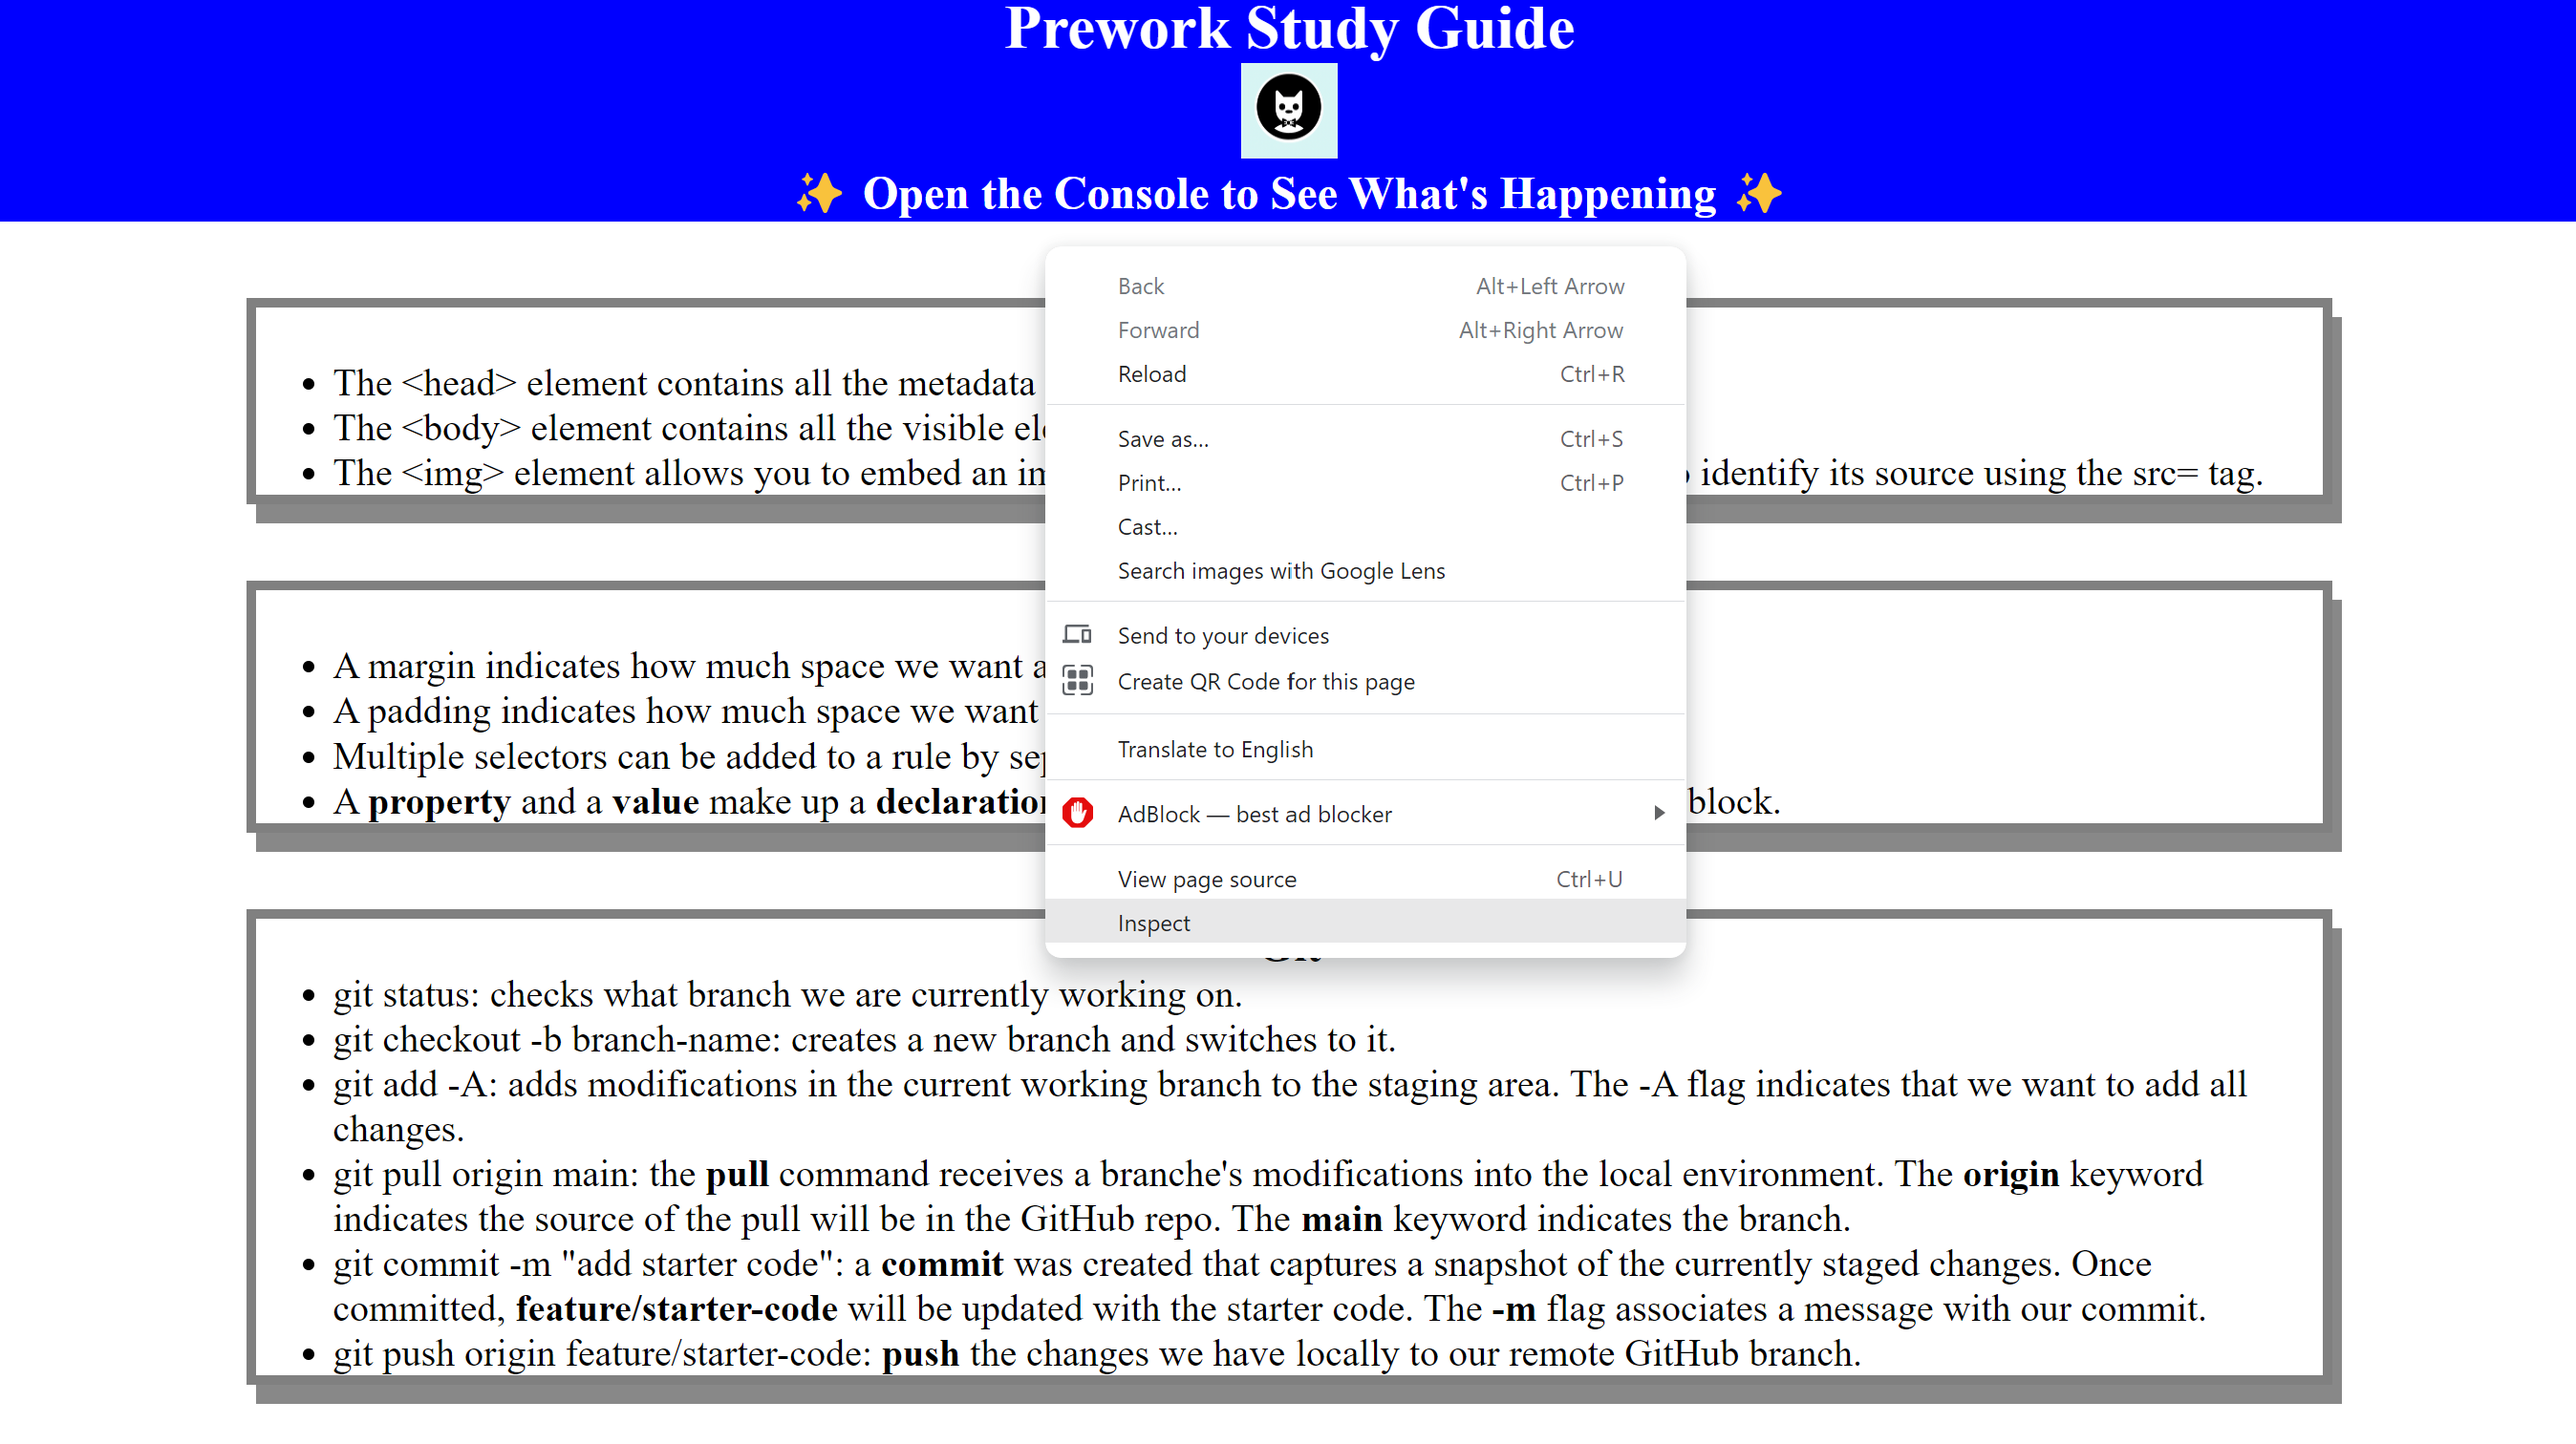
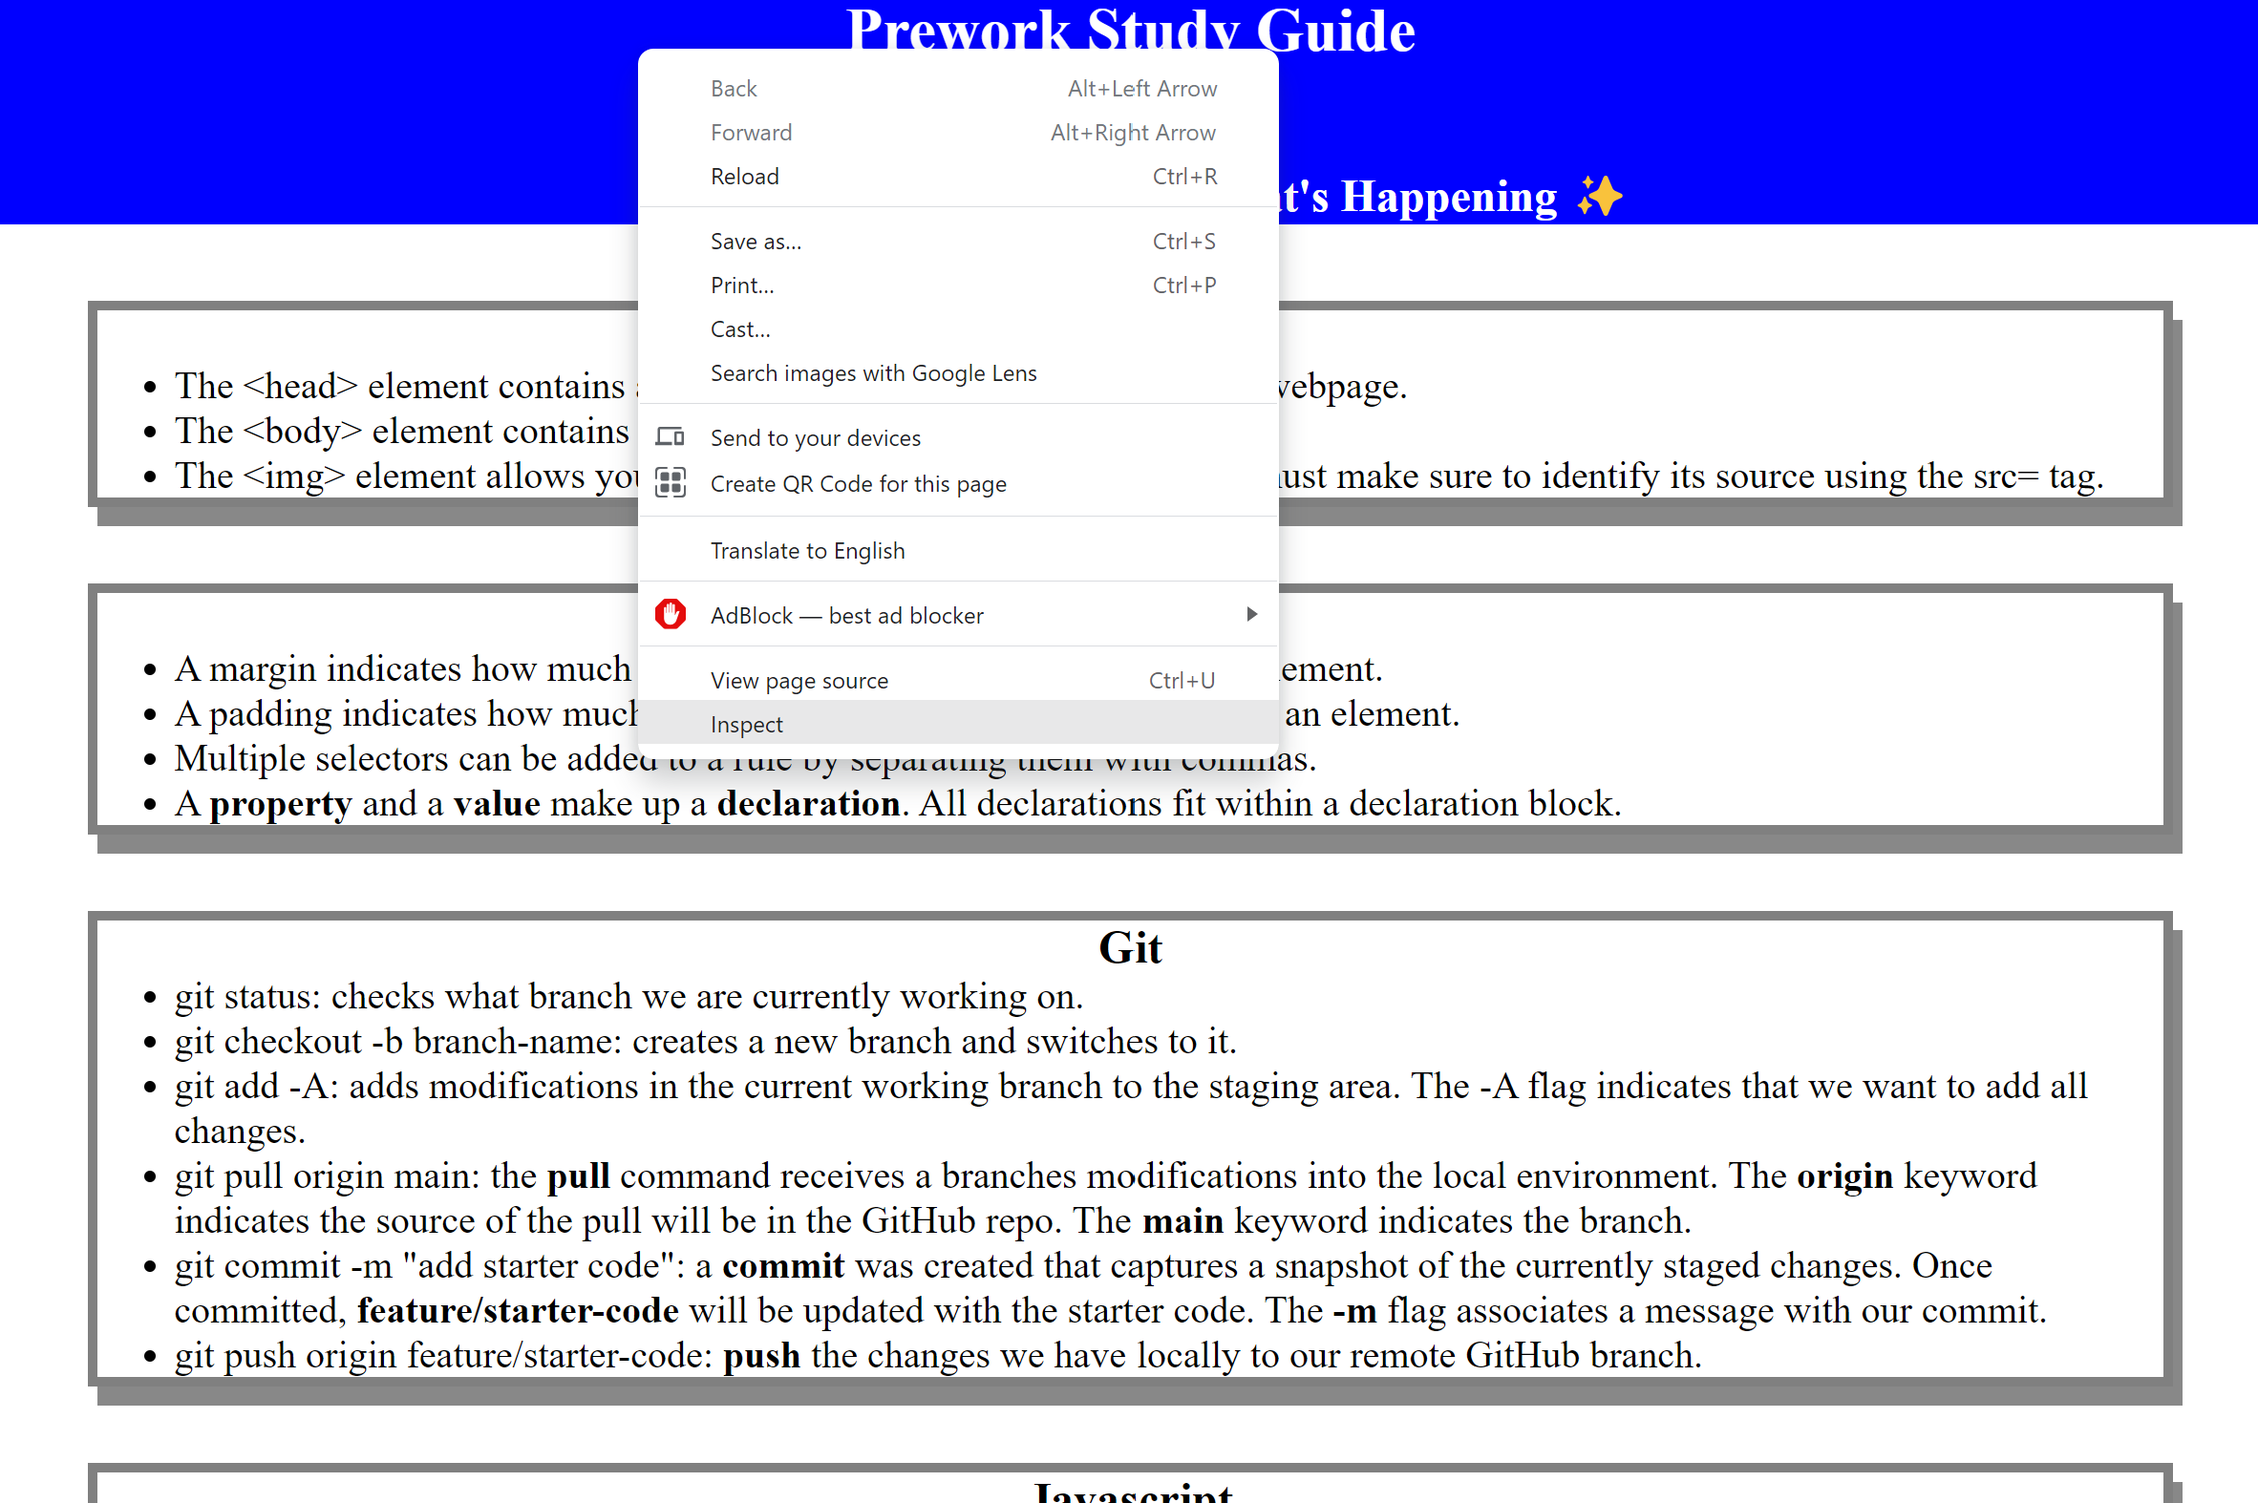
fixed typos

Changed region(s): [[0.0, 0.0, 1.0, 1.0]]

diff --git a/index.html b/index.html
@@ -37,7 +37,7 @@
               <li>git status: checks what branch we are currently working on.</li>
               <li>git checkout -b branch-name: creates a new branch and switches to it.</li>
               <li>git add -A: adds modifications in the current working branch to the staging area. The -A flag indicates that we want to add all changes.</li>
-              <li>git pull origin main: the <b>pull</b> command receives a branche's modifications into the local environment. The <b>origin</b> keyword indicates the source of the pull will be in the GitHub repo. The <b>main</b> keyword indicates the branch.</li>
+              <li>git pull origin main: the <b>pull</b> command receives a branches modifications into the local environment. The <b>origin</b> keyword indicates the source of the pull will be in the GitHub repo. The <b>main</b> keyword indicates the branch.</li>
               <li>git commit -m "add starter code": a <b>commit</b> was created that captures a snapshot of the currently staged changes. Once committed, <b>feature/starter-code</b> will be updated with the starter code. The <b>-m</b> flag associates a message with our commit.</li>
               <li>git push origin feature/starter-code: <b>push</b> the changes we have locally to our remote GitHub branch.</li>
             </ul>  
